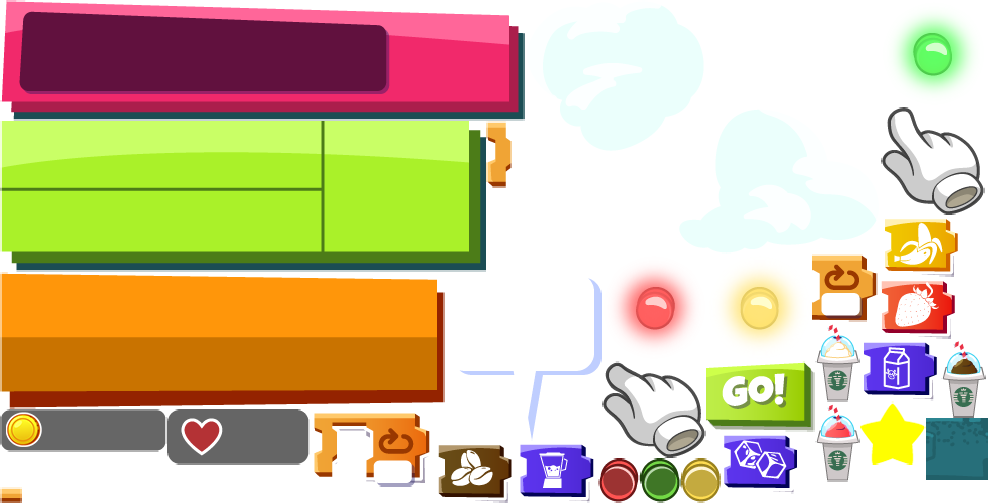
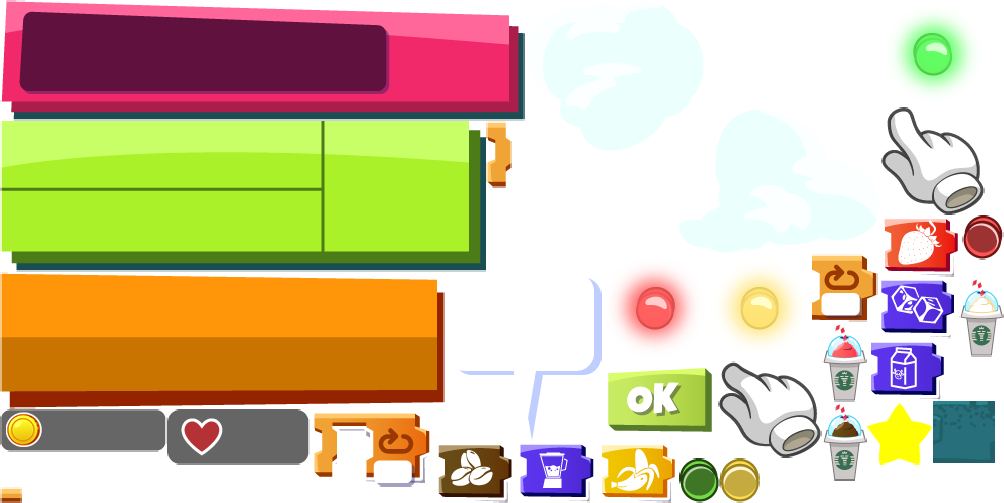
smoothieLoops fix

diff --git a/newStructure/minigames/smoothieLoops/js/scenes/smoothieLoops.js b/newStructure/minigames/smoothieLoops/js/scenes/smoothieLoops.js
@@ -72,6 +72,9 @@ var smoothieLoops = function(){
     var INITI_POS
     var DELTA_BUTTON = 70
 
+    var TUTORIAL_TWEEN_VELOCITY = 500
+    var BOARD_BUTTONS_SCALE = 0.7
+
     var lives
 	var sceneGroup = null
     var gameIndex = 152
@@ -136,6 +139,8 @@ var smoothieLoops = function(){
 
     var boardButtons
     var boardTween
+    var tutorialBoardTween
+    var tutorialButtonTween
     var errorTween
 
 	function loadSounds(){
@@ -555,8 +560,16 @@ var smoothieLoops = function(){
 						game.tweens.removeAll()
 						
 					}
+                    tutorialButtonTween.stop()
+                    tutorialBoardTween.stop()
+                    tutorialButtonTween = null
+                    tutorialBoardTween = null
 	            	evalTutorial()
 	            }
+                else{
+                    //hideBoard()
+                }
+
 	            button.inArea = true
 
 	            adjustLoop()
@@ -571,6 +584,10 @@ var smoothieLoops = function(){
 						game.tweens.removeAll()
 						
 					}
+                    tutorialButtonTween.stop()
+                    tutorialBoardTween.stop()
+                    tutorialButtonTween = null
+                    tutorialBoardTween = null
 	            	evalTutorial()
 	            }
 
@@ -654,13 +671,6 @@ var smoothieLoops = function(){
         }
 
         var correct = true
-        /*for(var i = 0; i < correctSecuence.length; i++){
-            if(correctSecuence[i] != arrayButtons[i].id){
-                missPoint()
-                correct = false
-                break
-            }
-        }*/
 
         if(inTutorial!=-1){
             if(inTutorial!=6){
@@ -673,9 +683,15 @@ var smoothieLoops = function(){
 				game.tweens.removeAll()
 				
 			}
-            hideBoard()
+            tutorialBoardTween.stop()
+            tutorialBoardTween = null
+
+            
         	evalTutorial()
         }
+
+
+        hideBoard()
 
         game.add.tween(dialog.scale).to({x:0,y:0},500,Phaser.Easing.linear,true)
 
@@ -713,15 +729,8 @@ var smoothieLoops = function(){
                     if(arrayButtons[currentIngredientAnimation].id != correctSecuence[currentIngredientAnimation]){
                         rectAnswer.tint = 0xff0000
 
-                        //boardButtons[currentIngredientAnimation].scale.setTo(1.3)
-                        //if(currentIngredientAnimation<arrayButtons.length-1){
-                            errorTween = game.add.tween(boardButtons[currentIngredientAnimation].scale).to({x:1.2,y:1.2},500,Phaser.Easing.linear,true)
-                        //}
-                        //else{
-                            
-                        //}
-                        errorTween.yoyo(true)
-                        errorTween.loop(true)
+
+                        makeTweenError(boardButtons[currentIngredientAnimation],BOARD_BUTTONS_SCALE)
 
                         smoothieBad()
                         return
@@ -785,9 +794,7 @@ var smoothieLoops = function(){
             else{
                 //lose
                 dialog.scale.setTo(1)
-                errorTween = game.add.tween(dialog.scale).to({x:1.2,y:1.2},500,Phaser.Easing.linear,true)
-                errorTween.yoyo(true)
-                errorTween.loop(true)
+                makeTweenError(dialog,1)
                 smoothieBad()
             }
         }
@@ -807,32 +814,42 @@ var smoothieLoops = function(){
             else{
                 //lose
                 dialog.scale.setTo(1)
-                errorTween = game.add.tween(dialog.scale).to({x:1.2,y:1.2},500,Phaser.Easing.linear,true)
-                errorTween.yoyo(true)
-                errorTween.loop(true)
+                makeTweenError(dialog,1)
                 smoothieBad()
             }
         }
     }
 
     function showBoard(){
-        game.add.tween(boardGroup).to({alpha:1,angle:0},500,Phaser.Easing.linear,true)
-        if(inTutorial==-1){
-            setTimeout(hideBoard,4000)
+        if(boardGroup.alpha == 0){
+            game.add.tween(boardGroup).to({alpha:1,angle:0},500,Phaser.Easing.linear,true)
         }
+        /*if(inTutorial==-1){
+            setTimeout(hideBoard,4000)
+        }*/
     }
 
     function hideBoard(){
         game.add.tween(boardGroup).to({alpha:0,angle:90},500,Phaser.Easing.linear,true)
 
+    }
+
+    function makeTweenError(object,initialScale){
         if(errorTween!=null){
             errorTween.stop()
             dialog.scale.setTo(1)
         }
 
         for(var i = 0; i < boardButtons.length; i ++){
-            boardButtons[i].scale.setTo(1)
+            boardButtons[i].scale.setTo(BOARD_BUTTONS_SCALE)
         }
+
+        errorTween = game.add.tween(object.scale).to({x:initialScale+0.2,y:initialScale + 0.2+0.2},500,Phaser.Easing.linear,true)
+
+        errorTween.yoyo(true)
+        errorTween.loop(true)
+
+
     }
 
     function smoothieBad(){
@@ -921,8 +938,20 @@ var smoothieLoops = function(){
     	switch(inTutorial){
     		case 0:
     		hand.loadTexture('atlas.game','handDown')
-    		hand.x = tutorialButtons[0].x+50
-    		hand.y = tutorialButtons[0].y+50
+    		hand.x = tutorialButtons[0].startPos.x+50
+    		hand.y = tutorialButtons[0].startPos.y+50
+
+            if(tutorialButtonTween==null){
+
+                tutorialButtonTween = game.add.tween(tutorialButtons[0].scale).to({x:1.2,y:1.2},TUTORIAL_TWEEN_VELOCITY,Phaser.Easing.linear,true)
+                tutorialButtonTween.yoyo(true)
+                tutorialButtonTween.loop(true)
+
+                tutorialBoardTween = game.add.tween(boardButtons[0].scale).to({x:BOARD_BUTTONS_SCALE + 0.2,y:BOARD_BUTTONS_SCALE + 0.2},TUTORIAL_TWEEN_VELOCITY,Phaser.Easing.linear,true)
+                tutorialBoardTween.yoyo(true)
+                tutorialBoardTween.loop(true)
+            }
+
     		tutorialTween = game.add.tween(hand).to({x:buttons_Area.x,y:buttons_Area.y+50},1000,Phaser.Easing.linear,true)
     		tutorialTween.onComplete.add(function(){
     			tutorialTween = null
@@ -933,8 +962,25 @@ var smoothieLoops = function(){
 
     		case 1:
     		hand.loadTexture('atlas.game','handDown')
-    		hand.x = tutorialButtons[1].x+50
-    		hand.y = tutorialButtons[1].y+50
+    		hand.x = tutorialButtons[1].startPos.x+50
+    		hand.y = tutorialButtons[1].startPos.y+50
+
+
+            if(tutorialButtonTween==null){
+                tutorialButtons[0].scale.setTo(1)
+                boardButtons[0].scale.setTo(BOARD_BUTTONS_SCALE)
+
+
+
+                tutorialButtonTween = game.add.tween(tutorialButtons[1].scale).to({x:1.2,y:1.2},TUTORIAL_TWEEN_VELOCITY,Phaser.Easing.linear,true)
+                tutorialButtonTween.yoyo(true)
+                tutorialButtonTween.loop(true)
+
+                tutorialBoardTween = game.add.tween(boardButtons[1].scale).to({x:BOARD_BUTTONS_SCALE + 0.2,y:BOARD_BUTTONS_SCALE + 0.2},TUTORIAL_TWEEN_VELOCITY,Phaser.Easing.linear,true)
+                tutorialBoardTween.yoyo(true)
+                tutorialBoardTween.loop(true)
+            }
+
     		tutorialTween = game.add.tween(hand).to({x:buttons_Area.x,y:buttons_Area.y+50},1000,Phaser.Easing.linear,true)
     		tutorialTween.onComplete.add(function(){
     			tutorialTween = null
@@ -945,8 +991,23 @@ var smoothieLoops = function(){
     		
     		case 2:
     		hand.loadTexture('atlas.game','handDown')
-    		hand.x = tutorialButtons[3].x+50
-    		hand.y = tutorialButtons[3].y+50
+    		hand.x = tutorialButtons[3].startPos.x+50
+    		hand.y = tutorialButtons[3].startPos.y+50
+
+
+            if(tutorialButtonTween==null){
+                tutorialButtons[1].scale.setTo(1)
+                boardButtons[1].scale.setTo(BOARD_BUTTONS_SCALE)
+
+                tutorialButtonTween = game.add.tween(tutorialButtons[3].scale).to({x:1.2,y:1.2},TUTORIAL_TWEEN_VELOCITY,Phaser.Easing.linear,true)
+                tutorialButtonTween.yoyo(true)
+                tutorialButtonTween.loop(true)
+
+                tutorialBoardTween = game.add.tween(boardButtons[2].scale).to({x:BOARD_BUTTONS_SCALE + 0.2,y:BOARD_BUTTONS_SCALE + 0.2},TUTORIAL_TWEEN_VELOCITY,Phaser.Easing.linear,true)
+                tutorialBoardTween.yoyo(true)
+                tutorialBoardTween.loop(true)
+            }
+
     		tutorialTween = game.add.tween(hand).to({x:buttons_Area.x,y:buttons_Area.y+50},1000,Phaser.Easing.linear,true)
     		tutorialTween.onComplete.add(function(){
     			tutorialTween = null
@@ -957,8 +1018,22 @@ var smoothieLoops = function(){
 
     		case 3:
     		hand.loadTexture('atlas.game','handDown')
-    		hand.x = tutorialButtons[2].x+50
-    		hand.y = tutorialButtons[2].y+50
+    		hand.x = tutorialButtons[2].startPos.x+50
+    		hand.y = tutorialButtons[2].startPos.y+50
+
+            if(tutorialButtonTween==null){
+                tutorialButtons[3].scale.setTo(1)
+                boardButtons[2].scale.setTo(BOARD_BUTTONS_SCALE)
+
+                tutorialButtonTween = game.add.tween(tutorialButtons[2].scale).to({x:1.2,y:1.2},TUTORIAL_TWEEN_VELOCITY,Phaser.Easing.linear,true)
+                tutorialButtonTween.yoyo(true)
+                tutorialButtonTween.loop(true)
+
+                tutorialBoardTween = game.add.tween(boardButtons[3].scale).to({x:BOARD_BUTTONS_SCALE + 0.2,y:BOARD_BUTTONS_SCALE + 0.2},TUTORIAL_TWEEN_VELOCITY,Phaser.Easing.linear,true)
+                tutorialBoardTween.yoyo(true)
+                tutorialBoardTween.loop(true)
+            }
+
     		tutorialTween = game.add.tween(hand).to({x:buttons_Area.x,y:buttons_Area.y+50},1000,Phaser.Easing.linear,true)
     		tutorialTween.onComplete.add(function(){
     			tutorialTween = null
@@ -969,8 +1044,22 @@ var smoothieLoops = function(){
 
     		case 4:
     		hand.loadTexture('atlas.game','handDown')
-    		hand.x = tutorialButtons[6].x+50
-    		hand.y = tutorialButtons[6].y+50
+    		hand.x = tutorialButtons[6].startPos.x+50
+    		hand.y = tutorialButtons[6].startPos.y+50
+
+            if(tutorialButtonTween==null){
+                tutorialButtons[2].scale.setTo(1)
+                boardButtons[3].scale.setTo(BOARD_BUTTONS_SCALE)
+
+                tutorialButtonTween = game.add.tween(tutorialButtons[6].scale).to({x:1.2,y:1.2},TUTORIAL_TWEEN_VELOCITY,Phaser.Easing.linear,true)
+                tutorialButtonTween.yoyo(true)
+                tutorialButtonTween.loop(true)
+
+                tutorialBoardTween = game.add.tween(dialog.scale).to({x:1.2,y:1.2},TUTORIAL_TWEEN_VELOCITY,Phaser.Easing.linear,true)
+                tutorialBoardTween.yoyo(true)
+                tutorialBoardTween.loop(true)
+            }
+
     		tutorialTween = game.add.tween(hand).to({x:buttons_Area.x,y:buttons_Area.y+50},1000,Phaser.Easing.linear,true)
     		tutorialTween.onComplete.add(function(){
     			tutorialTween = null
@@ -983,6 +1072,14 @@ var smoothieLoops = function(){
     		hand.loadTexture('atlas.game','handDown')
     		hand.x = loopButton.final.world.x+50
     		hand.y = loopButton.final.world.y+50
+            if(tutorialBoardTween==null){
+                tutorialButtons[6].scale.setTo(1)
+                dialog.scale.setTo(1)
+                tutorialBoardTween = game.add.tween(dialog.scale).to({x:1.2,y:1.2},TUTORIAL_TWEEN_VELOCITY,Phaser.Easing.linear,true)
+                tutorialBoardTween.yoyo(true)
+                tutorialBoardTween.loop(true)
+            }
+
     		setTimeout(function(){
     			tutorialTween = null
     			hand.loadTexture('atlas.game','handUp')
@@ -995,6 +1092,7 @@ var smoothieLoops = function(){
     		hand.loadTexture('atlas.game','handDown')
     		hand.x = okBtn.x+50
     		hand.y = okBtn.y+50
+            dialog.scale.setTo(1)
     		setTimeout(function(){
     			tutorialTween = null
     			hand.loadTexture('atlas.game','handUp')
@@ -1076,7 +1174,7 @@ var smoothieLoops = function(){
 
         INITI_POS = {x:game.world.centerX - 175,y:buttons_Area.y+7}
 
-        okBtn = sceneGroup.create(game.world.centerX+190, game.world.centerY+400,'atlas.game','go')
+        okBtn = sceneGroup.create(game.world.centerX+190, game.world.centerY+400,'atlas.game','ok')
         okBtn.anchor.setTo(0.5,0.5)
         okBtn.alpha = 0.5
         okBtn.inputEnabled = true
@@ -1104,7 +1202,7 @@ var smoothieLoops = function(){
         button.id = 0
         button.startPos = {x:button.x,y:button.y}
         button.events.onInputDown.add(clickButton,this)
-        tutorialButtons.push(button.startPos)
+        tutorialButtons.push(button)
 
         button.inArea = false
 
@@ -1114,7 +1212,7 @@ var smoothieLoops = function(){
         button.id = 1
         button.startPos = {x:button.x,y:button.y}
         button.events.onInputDown.add(clickButton,this)
-        tutorialButtons.push(button.startPos)
+        tutorialButtons.push(button)
         button.inArea = false
 
         button = sceneGroup.create(game.world.centerX+20, game.world.centerY+210,'atlas.game','licuar')
@@ -1123,7 +1221,7 @@ var smoothieLoops = function(){
         button.id = 2
         button.startPos = {x:button.x,y:button.y}
         button.events.onInputDown.add(clickButton,this)
-        tutorialButtons.push(button.startPos)
+        tutorialButtons.push(button)
         button.inArea = false
 
         button = sceneGroup.create(game.world.centerX-180, game.world.centerY+280,'atlas.game','banana')
@@ -1132,7 +1230,7 @@ var smoothieLoops = function(){
         button.id = 3
         button.startPos = {x:button.x,y:button.y}
         button.events.onInputDown.add(clickButton,this)
-        tutorialButtons.push(button.startPos)
+        tutorialButtons.push(button)
         button.inArea = false
 
         button = sceneGroup.create(game.world.centerX-80, game.world.centerY+280,'atlas.game','fresawn')
@@ -1141,7 +1239,7 @@ var smoothieLoops = function(){
         button.id = 4
         button.startPos = {x:button.x,y:button.y}
         button.events.onInputDown.add(clickButton,this)
-        tutorialButtons.push(button.startPos)
+        tutorialButtons.push(button)
         button.inArea = false
 
         button = sceneGroup.create(game.world.centerX+20, game.world.centerY+280,'atlas.game','cofi')
@@ -1150,7 +1248,7 @@ var smoothieLoops = function(){
         button.id = 5
         button.startPos = {x:button.x,y:button.y}
         button.events.onInputDown.add(clickButton,this)
-        tutorialButtons.push(button.startPos)
+        tutorialButtons.push(button)
         button.inArea = false
 
         lButton = sceneGroup.create(game.world.centerX+150, game.world.centerY+250,'atlas.game','loop')
@@ -1159,7 +1257,7 @@ var smoothieLoops = function(){
         lButton.startPos = {x:lButton.x,y:lButton.y}
         lButton.id = 6
         lButton.events.onInputDown.add(clickButton,this)
-        tutorialButtons.push(lButton.startPos)
+        tutorialButtons.push(lButton)
         lButton.inArea = false
         var fontStyle = {font: "25px VAGRounded", fontWeight: "bold", fill: "#000000", align: "center"}
 
